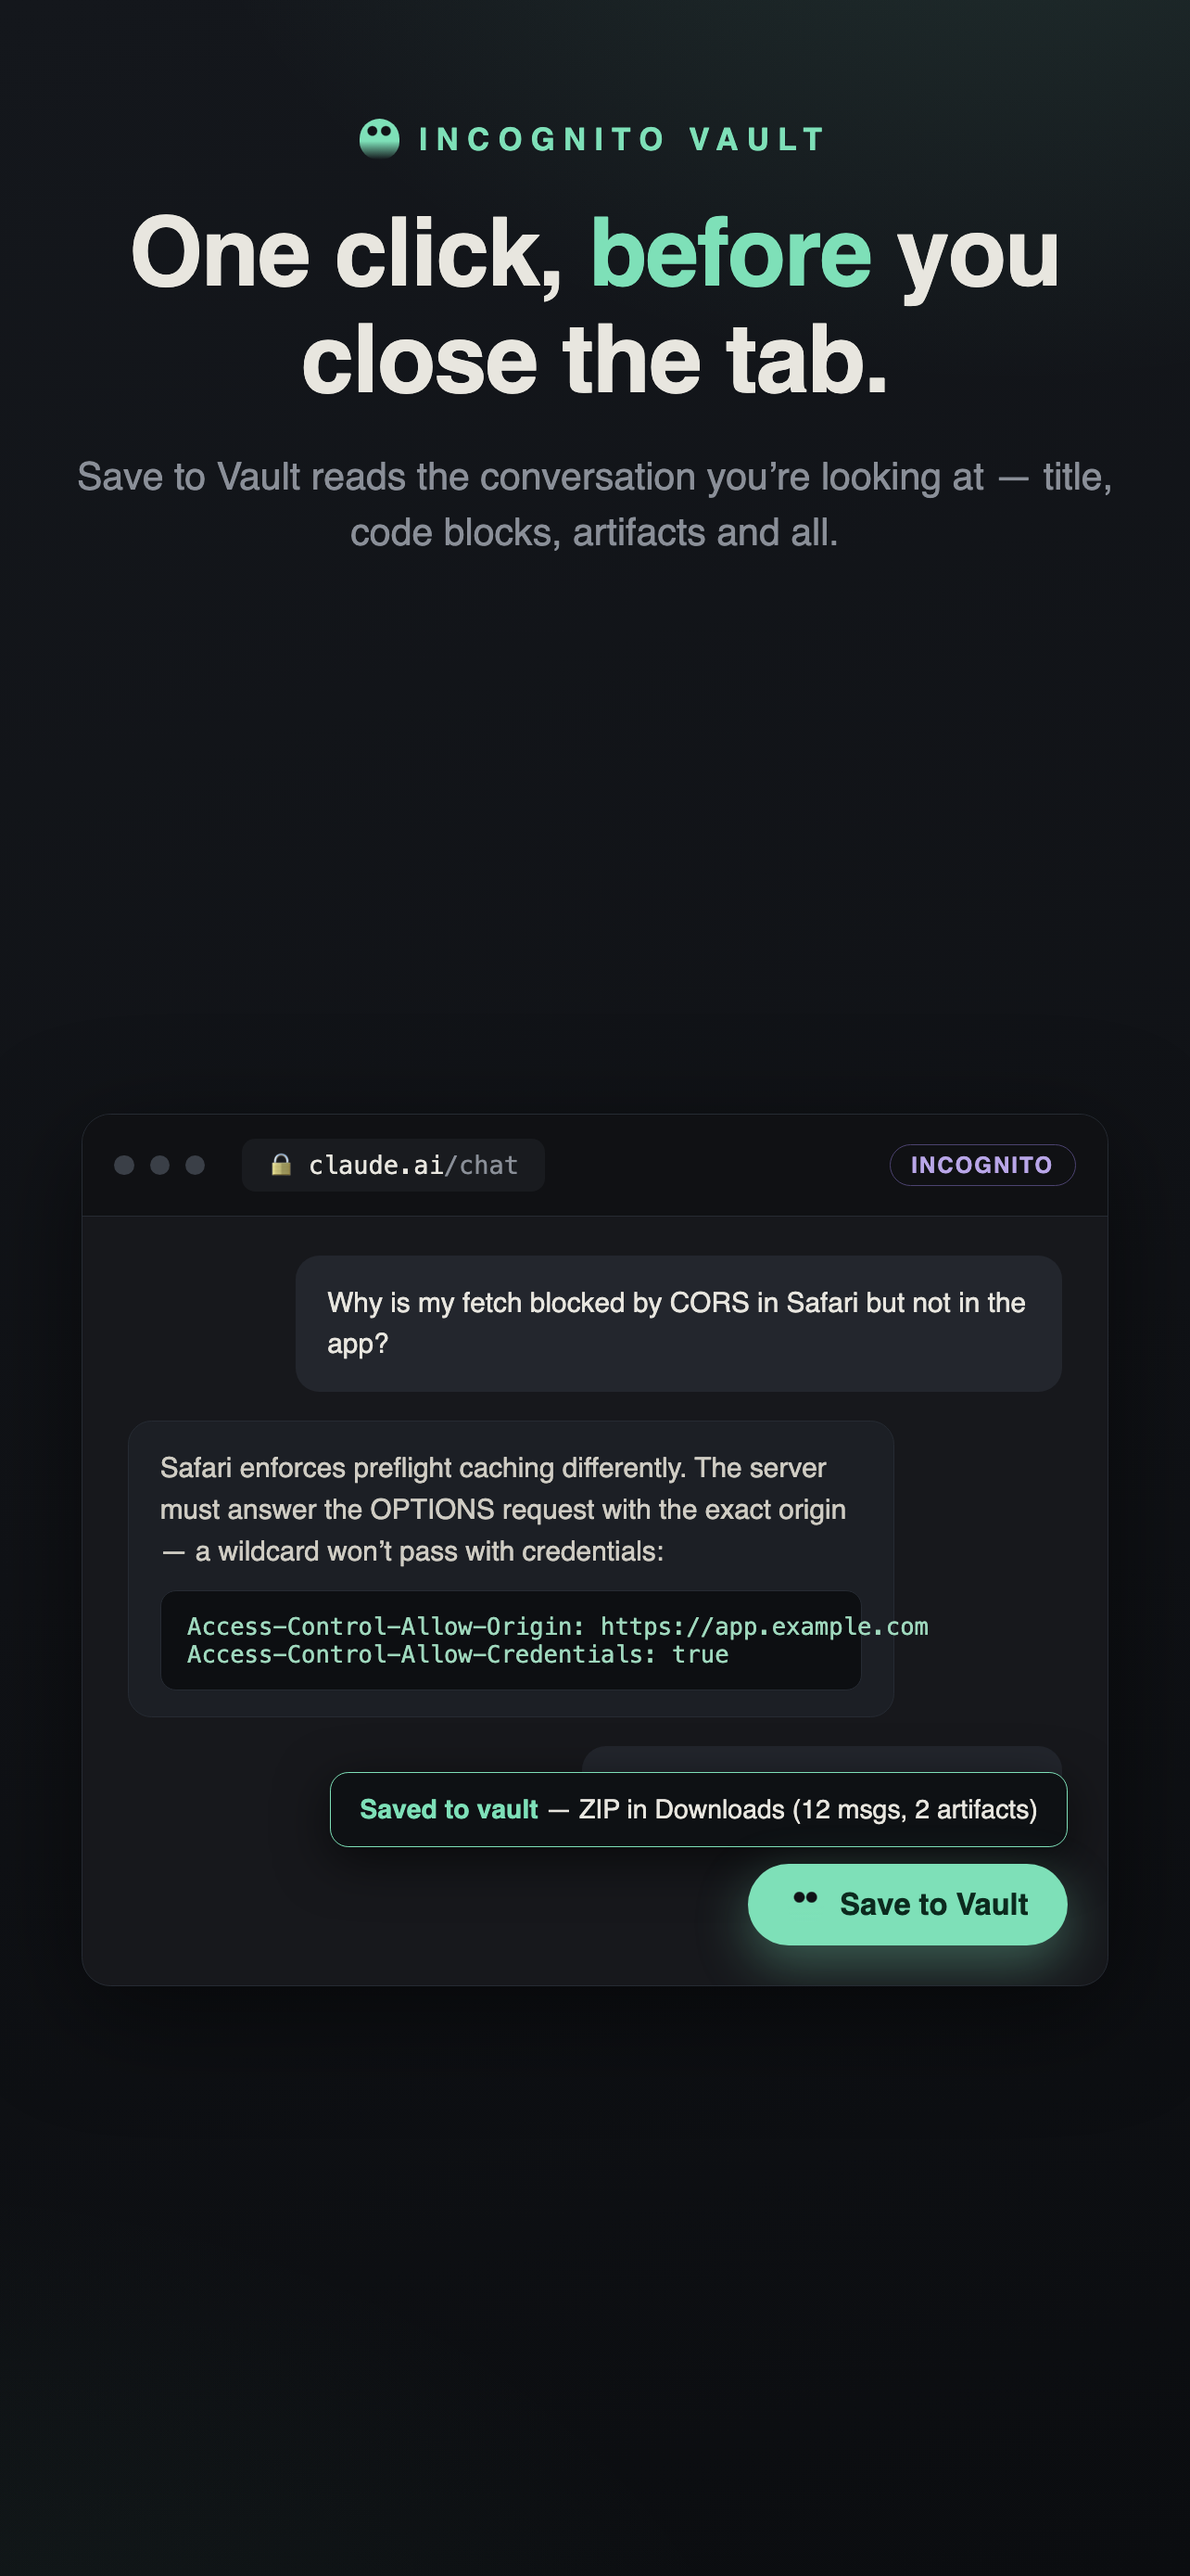
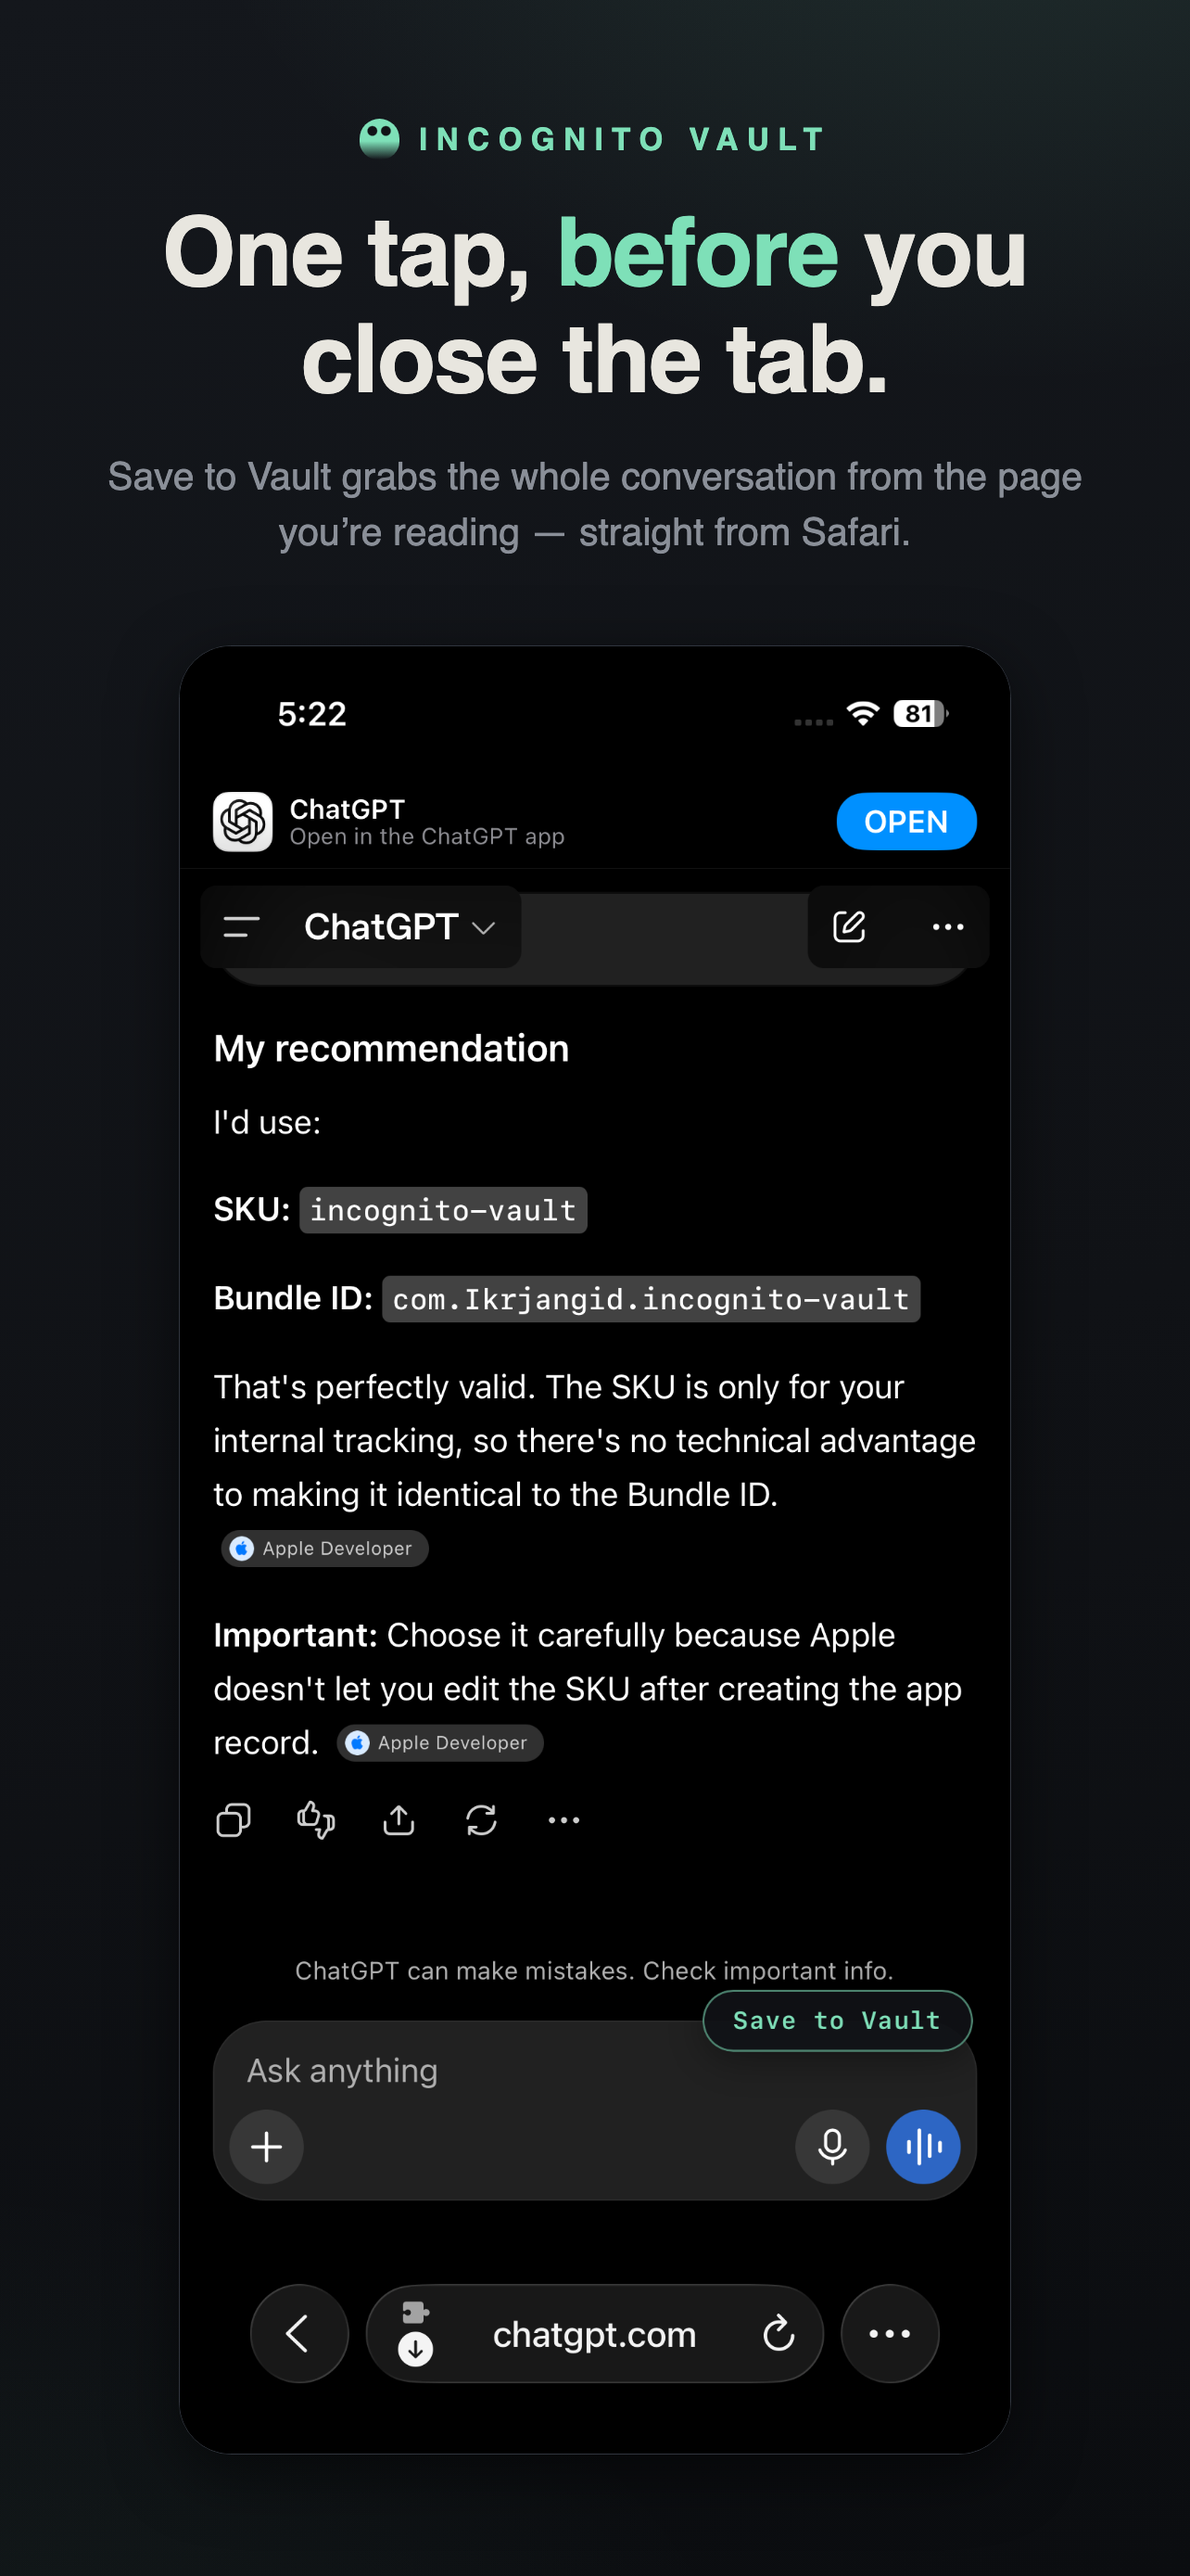
Refactor code structure for improved readability and maintainability

diff --git a/store-assets/safari/src/real.html b/store-assets/safari/src/real.html
@@ -1,0 +1,163 @@
+<!DOCTYPE html>
+<html lang="en">
+<head>
+<meta charset="UTF-8" />
+<title>Incognito Vault — App Store screenshots from real captures</title>
+<style>
+  :root {
+    --ink: #101216;
+    --text: #e8e6df;
+    --muted: #8a8f98;
+    --accent: #7ee0b8;
+    --line: #262b33;
+  }
+  * { box-sizing: border-box; margin: 0; padding: 0; }
+  html, body { width: 100vw; height: 100vh; overflow: hidden; }
+  body {
+    background:
+      radial-gradient(120vmin 90vmin at 85% -10%, rgba(126, 224, 184, 0.14), transparent 60%),
+      radial-gradient(140vmin 100vmin at -10% 110%, rgba(126, 224, 184, 0.07), transparent 55%),
+      linear-gradient(165deg, #14171c 0%, var(--ink) 55%, #0b0d10 100%);
+    color: var(--text);
+    font-family: -apple-system, "SF Pro Display", "Segoe UI", Roboto, sans-serif;
+    display: flex;
+    flex-direction: column;
+    align-items: center;
+    justify-content: space-between;
+    padding: 7vmin 6vmin;
+    gap: 4vmin;
+  }
+
+  .caption { text-align: center; max-width: 88vmin; flex: none; }
+  .kicker {
+    display: inline-flex; align-items: center; gap: 1.6vmin;
+    font-size: 2.2vmin; font-weight: 700;
+    letter-spacing: 0.28em; text-transform: uppercase;
+    color: var(--accent); margin-bottom: 2.8vmin;
+  }
+  .orb {
+    width: 3.4vmin; height: 3.4vmin;
+    border-radius: 50% 50% 45% 45%;
+    background:
+      radial-gradient(circle at 32% 30%, var(--ink) 0.36vmin, transparent 0.46vmin),
+      radial-gradient(circle at 66% 30%, var(--ink) 0.36vmin, transparent 0.46vmin),
+      linear-gradient(180deg, var(--accent) 55%, transparent 100%);
+    flex: none;
+  }
+  h1 { font-size: 6.4vmin; line-height: 1.12; font-weight: 800; letter-spacing: -0.015em; }
+  h1 em { font-style: normal; color: var(--accent); }
+  .sub { margin-top: 2.4vmin; font-size: 2.7vmin; line-height: 1.45; color: var(--muted); font-weight: 500; }
+
+  .visual {
+    flex: 1 1 auto; min-height: 0; min-width: 0; width: 100%;
+    display: flex; align-items: center; justify-content: center;
+  }
+
+  /* Device-style frame around the real capture. */
+  .frame {
+    border: 1px solid var(--line);
+    border-radius: 24px;
+    overflow: hidden;
+    box-shadow: 0 20px 70px rgba(0, 0, 0, 0.55);
+    background: #000;
+  }
+  .frame img { display: block; }
+  .frame.device { border-radius: 56px; border-color: #31363f; }
+
+  /* Cropped zoom onto a region of a larger capture. */
+  .crop { position: relative; }
+  .crop img { position: absolute; }
+
+  @media (orientation: landscape) {
+    body { flex-direction: row; justify-content: center; align-items: stretch; padding: 0; gap: 0; }
+    .caption {
+      flex: 0 0 42%;
+      display: flex; flex-direction: column; justify-content: center; align-items: flex-start;
+      text-align: left; padding: 0 4vmin 0 8vmin; max-width: none;
+    }
+    h1 { font-size: 7.4vmin; }
+    .sub { font-size: 3vmin; max-width: 60vmin; }
+    .visual { padding: 6vmin 6vmin 6vmin 0; }
+  }
+
+  @media (max-aspect-ratio: 3/5) {
+    body { padding-top: 10vmin; }
+    h1 { font-size: 8vmin; }
+    .sub { font-size: 3.2vmin; margin-top: 3vmin; }
+    .kicker { font-size: 2.6vmin; margin-bottom: 3.4vmin; }
+  }
+</style>
+</head>
+<body>
+
+<section class="caption">
+  <div class="kicker"><span class="orb"></span> Incognito Vault</div>
+  <h1 id="headline"></h1>
+  <p class="sub" id="subline"></p>
+</section>
+
+<section class="visual" id="visual"></section>
+
+<script>
+  // Every visual is a REAL capture from store-assets/safari/ — no mockups.
+  const SHOTS = {
+    ip1: {
+      headline: 'Incognito chats vanish.<br><em>Yours don’t have to.</em>',
+      subline: 'A private, searchable vault for Claude and ChatGPT temporary chats — on your iPhone, nowhere else.',
+      visual: `<div class="frame device"><img src="../popup_bottom_sheet.png" width="900" /></div>`
+    },
+    ip2: {
+      headline: 'One tap, <em>before</em> you close the tab.',
+      subline: 'Save to Vault grabs the whole conversation from the page you’re reading — straight from Safari.',
+      visual: `<div class="frame device"><img src="../floating%20_button.png" width="900" /></div>`
+    },
+    pad1: {
+      headline: 'Your vault, one tap<br>from the <em>address bar</em>.',
+      subline: 'Save the current chat, search your history, resume or re-download any of them — right inside Safari.',
+      visual: `<div class="frame"><img src="../tab.png" width="1400" /></div>`
+    },
+    pad2: {
+      headline: 'Everything stays<br><em>on your iPad</em>.',
+      subline: 'No servers, no accounts, no analytics — chats save to Files as tidy Markdown ZIPs.',
+      visual: `<div class="frame device"><img src="../tab_2.png" width="1000" /></div>`
+    },
+    mac1: {
+      headline: 'Incognito chats vanish.<br><em>Yours don’t have to.</em>',
+      subline: 'A private, searchable vault for Claude and ChatGPT temporary chats — kept on your Mac, nowhere else.',
+      // Crop the dark band above Safari's toolbar out of the capture.
+      visual: `<div class="frame crop" style="width:1500px;height:930px;">
+        <img src="../desktop.png" style="width:1500px;margin-top:-34px;" />
+      </div>`
+    },
+    mac2: {
+      headline: 'One click in<br>Safari’s <em>toolbar</em>.',
+      subline: 'Save the current chat, search your history, resume any of them — and every save lands as plain Markdown.',
+      // Zoom onto the toolbar + popup region of the desktop capture.
+      visual: `<div class="frame crop" style="width:1100px;height:960px;">
+        <img src="../desktop.png" style="width:4200px;margin-left:-750px;margin-top:-110px;" />
+      </div>`
+    }
+  };
+
+  const q = new URLSearchParams(location.search);
+  const shot = SHOTS[q.get('shot') || 'ip1'];
+  document.getElementById('headline').innerHTML = shot.headline;
+  document.getElementById('subline').innerHTML = shot.subline;
+  const v = document.getElementById('visual');
+  v.innerHTML = '<div class="fit">' + shot.visual + '</div>';
+
+  // Scale the framed capture to fill the space the caption leaves.
+  const fit = v.querySelector('.fit');
+  const ready = () => requestAnimationFrame(() => requestAnimationFrame(() => {
+    const r = fit.getBoundingClientRect();
+    const cs = getComputedStyle(v);
+    const availW = (v.clientWidth - parseFloat(cs.paddingLeft) - parseFloat(cs.paddingRight)) * 0.96;
+    const availH = (v.clientHeight - parseFloat(cs.paddingTop) - parseFloat(cs.paddingBottom)) * 0.96;
+    fit.style.zoom = Math.min(availW / r.width, availH / r.height);
+    document.title = 'ready';
+  }));
+  const img = v.querySelector('img');
+  if (img.complete) ready(); else img.addEventListener('load', ready);
+</script>
+</body>
+</html>

diff --git a/SAFARI_STORE_LISTING.md b/SAFARI_STORE_LISTING.md
@@ -159,18 +159,20 @@ demo account in the Review section if you don't want reviewers using their own.
 
 ## Screenshots
 
-All generated, exact-size, 24-bit RGB with no alpha, in `store-assets/safari/`.
-Upload in numbered order — screenshot 1 carries the pitch on its own.
+All exact-size, 24-bit RGB with no alpha, in `store-assets/safari/`. Every
+visual is a **real capture** of the extension running in Safari (the raw
+captures sit in the folder root: `desktop.png`, `floating _button.png`,
+`popup_bottom_sheet.png`, `tab.png`, `tab_2.png`), framed on the brand
+background with a caption. Upload in numbered order.
 
-| # | File name | Shows | Says |
+| Slot | File | Real capture used | Says |
 |---|---|---|---|
-| 1 | `shot-1-history.png` | Popup with five saved chats | Incognito chats vanish — yours don't have to |
-| 2 | `shot-2-save.png` | Chat page, Save to Vault button + saved toast | One click, before you close the tab |
-| 3 | `shot-3-zip.png` | ZIP → folder tree → Markdown front-matter | One ZIP per chat, plain Markdown inside |
-| 4 | `shot-4-privacy.png` | On-device / click-only / open-source checklist | No servers, no accounts, no analytics |
-| 5 | `shot-5-resume.png` | Popup row → new temporary session, composer pre-filled | Pick it back up where you left off |
-
-Sizes per device (each folder holds all five shots):
+| iPhone 1 | `iphone-6.7/shot-1-vault.png` | `popup_bottom_sheet.png` — popup with a saved chat | Incognito chats vanish — yours don't have to |
+| iPhone 2 | `iphone-6.7/shot-2-save.png` | `floating _button.png` — Save to Vault on a chat | One tap, before you close the tab |
+| iPad 1 | `ipad-13/shot-1-popover.png` | `tab.png` — popover with saved chat + fab | Your vault, one tap from the address bar |
+| iPad 2 | `ipad-13/shot-2-private.png` | `tab_2.png` — popover empty state | Everything stays on your iPad |
+| Mac 1 | `mac/shot-1-overview.png` | `desktop.png` — full Safari window | Incognito chats vanish — yours don't have to |
+| Mac 2 | `mac/shot-2-popup.png` | `desktop.png` — zoom on toolbar + popup | One click in Safari's toolbar |
 
 | Folder | Size | App Store slot |
 |---|---|---|
@@ -178,19 +180,18 @@ Sizes per device (each folder holds all five shots):
 | `store-assets/safari/iphone-6.7/` | 1284 × 2778 | iPhone 6.7"/6.9" display (accepted: 1242×2688, 2688×1242, 1284×2778, 2778×1284) |
 | `store-assets/safari/ipad-13/` | 2064 × 2752 | iPad 13" display (accepted: 2064×2752, 2752×2064, 2048×2732, 2732×2048) |
 
-The popup, in-page button, and toast in the shots are rendered from the
-extension's real palette and markup (`shared/popup/popup.css`,
-`shared/content/content.css`) — not a redrawn mockup.
-
-**Regenerating after a UI or copy change:** the master template is
-`store-assets/safari/src/template.html` (`?shot=1`…`?shot=5`; it adapts to any
-canvas size/orientation). Render any size with headless Chromium, e.g.:
+**Regenerating after new captures:** drop the raw screenshots into
+`store-assets/safari/`, adjust the image references/captions in
+`store-assets/safari/src/real.html` (`?shot=ip1|ip2|pad1|pad2|mac1|mac2`; the
+page adapts to any canvas size), then render with headless Chromium, e.g.:
 
 ```bash
 npx playwright screenshot --viewport-size=2880,1800 \
-  "file://$PWD/store-assets/safari/src/template.html?shot=1" \
-  store-assets/safari/mac/shot-1-history.png
+  "file://$PWD/store-assets/safari/src/real.html?shot=mac1" \
+  store-assets/safari/mac/shot-1-overview.png
 ```
+
+(`src/template.html` is the older all-mockup generator, kept for reference.)
 
 ---
 
